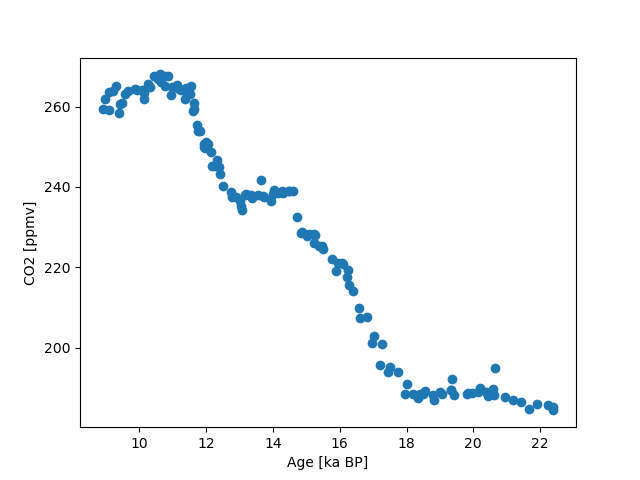
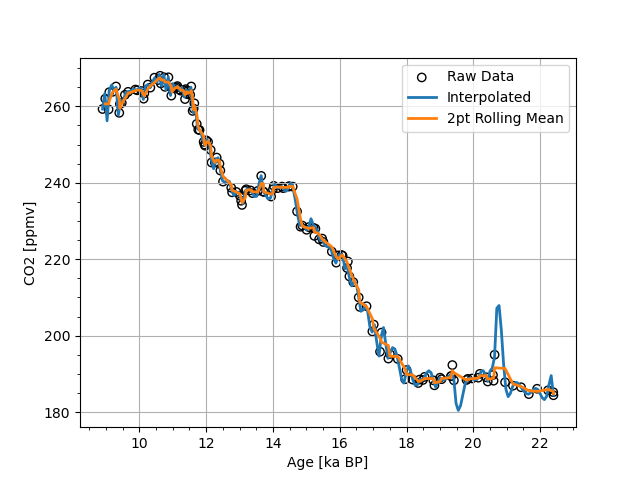
add rolling mean method and related example

diff --git a/docs/source/auto_examples/plot_scatterdata.py b/docs/source/auto_examples/plot_scatterdata.py
@@ -3,10 +3,32 @@
 Plot the 1D ScatterData
 =========================================
 
-This example shows how to plot the 1D ScatterData object. I use a data file from the EDC ice core (https://doi.pangaea.de/10.1594/PANGAEA.472488) as an example.
+This example shows how to plot the 1D ScatterData object. I use a CO2 data file from the Antarctic EDC ice core (https://doi.pangaea.de/10.1594/PANGAEA.472488) as an example.
 """
 
 from cgeniepy.table import ScatterData
-data= ScatterData("/Users/yingrui/cgeniepy/src/data/EDC_CO2.tab", sep='\t')
-data.set_index(['Age [ka BP]'])
-data.to_ScatterDataVis().plot(var='CO2 [ppmv]')
+import matplotlib.pyplot as plt
+
+# Load data
+edc_co2 = ScatterData("/Users/yingrui/cgeniepy/src/data/EDC_CO2.tab", sep='\t')
+edc_co2.set_index(['Age [ka BP]'])
+
+# Create subplots
+fig, ax = plt.subplots()
+
+# Plot the raw data
+edc_co2.to_ScatterDataVis().plot(var='CO2 [ppmv]', ax=ax, label='Raw Data', edgecolor='black', facecolor='none', marker='o')
+# Plot the interpolated data (based on cubic spline interpolation)
+interpolated_data = edc_co2.interpolate(var='CO2 [ppmv]').to_dataframe()
+interpolated_data.plot(ax=ax, x='Age [ka BP]', y='interpolated_values', label='Interpolated', linewidth=2)
+
+# Use rolling mean to smooth the data
+smoothed_data = edc_co2.rolling(window=2).mean()
+smoothed_data['CO2 [ppmv]'].plot(ax=ax, label='2pt Rolling Mean', linewidth=2)
+
+ax.legend()
+ax.grid(True)
+ax.minorticks_on()
+
+plt.show()
+

diff --git a/examples/plot_scatterdata.py b/examples/plot_scatterdata.py
@@ -3,10 +3,32 @@
 Plot the 1D ScatterData
 =========================================
 
-This example shows how to plot the 1D ScatterData object. I use a data file from the EDC ice core (https://doi.pangaea.de/10.1594/PANGAEA.472488) as an example.
+This example shows how to plot the 1D ScatterData object. I use a CO2 data file from the Antarctic EDC ice core (https://doi.pangaea.de/10.1594/PANGAEA.472488) as an example.
 """
 
 from cgeniepy.table import ScatterData
-data= ScatterData("/Users/yingrui/cgeniepy/src/data/EDC_CO2.tab", sep='\t')
-data.set_index(['Age [ka BP]'])
-data.to_ScatterDataVis().plot(var='CO2 [ppmv]')
+import matplotlib.pyplot as plt
+
+# Load data
+edc_co2 = ScatterData("/Users/yingrui/cgeniepy/src/data/EDC_CO2.tab", sep='\t')
+edc_co2.set_index(['Age [ka BP]'])
+
+# Create subplots
+fig, ax = plt.subplots()
+
+# Plot the raw data
+edc_co2.to_ScatterDataVis().plot(var='CO2 [ppmv]', ax=ax, label='Raw Data', edgecolor='black', facecolor='none', marker='o')
+# Plot the interpolated data (based on cubic spline interpolation)
+interpolated_data = edc_co2.interpolate(var='CO2 [ppmv]').to_dataframe()
+interpolated_data.plot(ax=ax, x='Age [ka BP]', y='interpolated_values', label='Interpolated', linewidth=2)
+
+# Use rolling mean to smooth the data
+smoothed_data = edc_co2.rolling(window=2).mean()
+smoothed_data['CO2 [ppmv]'].plot(ax=ax, label='2pt Rolling Mean', linewidth=2)
+
+ax.legend()
+ax.grid(True)
+ax.minorticks_on()
+
+plt.show()
+

diff --git a/src/cgeniepy/grid.py b/src/cgeniepy/grid.py
@@ -586,11 +586,13 @@ class Interpolator:
 
         :returns: pandas DataFrame
         """
+        assert len(self.dims) == 1, "Only support 1D data"
+
         index = self.gridded_coord[0]
         values = self.gridded_data[0]
 
         ## build a data frame
-        data = {self.dims[0]: index, "values": values}
+        data = {self.dims[0]: index, "interpolated_values": values}
 
         return pd.DataFrame(data)
     

diff --git a/src/cgeniepy/table.py b/src/cgeniepy/table.py
@@ -234,3 +234,7 @@ class ScatterData:
         "compare two ScatterData objects"
         return DFComparison(self.data, var1, var2)
 
+    def rolling(self, window, *args, **kwargs):
+        "apply rolling to the data"
+        return self.data.rolling(window, *args, **kwargs)
+

diff --git a/docs/source/auto_examples/plot_scatterdata.rst b/docs/source/auto_examples/plot_scatterdata.rst
@@ -22,9 +22,9 @@
 Plot the 1D ScatterData
 =========================================
 
-This example shows how to plot the 1D ScatterData object. I use a data file from the EDC ice core (https://doi.pangaea.de/10.1594/PANGAEA.472488) as an example.
+This example shows how to plot the 1D ScatterData object. I use a CO2 data file from the Antarctic EDC ice core (https://doi.pangaea.de/10.1594/PANGAEA.472488) as an example.
 
-.. GENERATED FROM PYTHON SOURCE LINES 8-13
+.. GENERATED FROM PYTHON SOURCE LINES 8-35
 
 
 
@@ -40,7 +40,6 @@ This example shows how to plot the 1D ScatterData object. I use a data file from
 
     <frozen importlib._bootstrap>:241: RuntimeWarning: scipy._lib.messagestream.MessageStream size changed, may indicate binary incompatibility. Expected 56 from C header, got 64 from PyObject
 
-    <matplotlib.collections.PathCollection object at 0x17684ebc0>
 
 
 
@@ -52,14 +51,36 @@ This example shows how to plot the 1D ScatterData object. I use a data file from
 
 
     from cgeniepy.table import ScatterData
-    data= ScatterData("/Users/yingrui/cgeniepy/src/data/EDC_CO2.tab", sep='\t')
-    data.set_index(['Age [ka BP]'])
-    data.to_ScatterDataVis().plot(var='CO2 [ppmv]')
+    import matplotlib.pyplot as plt
+
+    # Load data
+    edc_co2 = ScatterData("/Users/yingrui/cgeniepy/src/data/EDC_CO2.tab", sep='\t')
+    edc_co2.set_index(['Age [ka BP]'])
+
+    # Create subplots
+    fig, ax = plt.subplots()
+
+    # Plot the raw data
+    edc_co2.to_ScatterDataVis().plot(var='CO2 [ppmv]', ax=ax, label='Raw Data', edgecolor='black', facecolor='none', marker='o')
+    # Plot the interpolated data (based on cubic spline interpolation)
+    interpolated_data = edc_co2.interpolate(var='CO2 [ppmv]').to_dataframe()
+    interpolated_data.plot(ax=ax, x='Age [ka BP]', y='interpolated_values', label='Interpolated', linewidth=2)
+
+    # Use rolling mean to smooth the data
+    smoothed_data = edc_co2.rolling(window=2).mean()
+    smoothed_data['CO2 [ppmv]'].plot(ax=ax, label='2pt Rolling Mean', linewidth=2)
+
+    ax.legend()
+    ax.grid(True)
+    ax.minorticks_on()
+
+    plt.show()
+
 
 
 .. rst-class:: sphx-glr-timing
 
-   **Total running time of the script:** (0 minutes 0.820 seconds)
+   **Total running time of the script:** (0 minutes 0.886 seconds)
 
 
 .. _sphx_glr_download_auto_examples_plot_scatterdata.py:

diff --git a/docs/source/auto_examples/index.rst b/docs/source/auto_examples/index.rst
@@ -14,23 +14,6 @@ Below is a gallery of examples
 
 .. raw:: html
 
-    <div class="sphx-glr-thumbcontainer" tooltip="This example shows how to plot the 1D ScatterData object. I use a data file from the EDC ice co...">
-
-.. only:: html
-
-  .. image:: /auto_examples/images/thumb/sphx_glr_plot_scatterdata_thumb.png
-    :alt:
-
-  :ref:`sphx_glr_auto_examples_plot_scatterdata.py`
-
-.. raw:: html
-
-      <div class="sphx-glr-thumbnail-title">Plot the 1D ScatterData</div>
-    </div>
-
-
-.. raw:: html
-
     <div class="sphx-glr-thumbcontainer" tooltip="This example shows how to use the ArrComparison class to compare two arrays and plot the compar...">
 
 .. only:: html
@@ -184,6 +167,23 @@ Below is a gallery of examples
 
 .. raw:: html
 
+    <div class="sphx-glr-thumbcontainer" tooltip="This example shows how to plot the 1D ScatterData object. I use a CO2 data file from the Antarc...">
+
+.. only:: html
+
+  .. image:: /auto_examples/images/thumb/sphx_glr_plot_scatterdata_thumb.png
+    :alt:
+
+  :ref:`sphx_glr_auto_examples_plot_scatterdata.py`
+
+.. raw:: html
+
+      <div class="sphx-glr-thumbnail-title">Plot the 1D ScatterData</div>
+    </div>
+
+
+.. raw:: html
+
     <div class="sphx-glr-thumbcontainer" tooltip="This example uses fake data and fitted model prediction to plot taylor diagram">
 
 .. only:: html
@@ -275,7 +275,6 @@ Below is a gallery of examples
 .. toctree::
    :hidden:
 
-   /auto_examples/plot_scatterdata
    /auto_examples/plot_arrcomparison
    /auto_examples/plot_sst_map
    /auto_examples/plot_pac_sst
@@ -285,6 +284,7 @@ Below is a gallery of examples
    /auto_examples/plot_multiple_vars
    /auto_examples/plot_logo
    /auto_examples/plot_PO4_distribution
+   /auto_examples/plot_scatterdata
    /auto_examples/plot_taylor_diagram
    /auto_examples/plot_d13C_comp
    /auto_examples/plot_additional_cmap

diff --git a/docs/source/auto_examples/sg_execution_times.rst b/docs/source/auto_examples/sg_execution_times.rst
@@ -6,7 +6,7 @@
 
 Computation times
 =================
-**00:00.820** total execution time for 15 files **from auto_examples**:
+**00:00.886** total execution time for 15 files **from auto_examples**:
 
 .. container::
 
@@ -33,7 +33,7 @@ Computation times
      - Time
      - Mem (MB)
    * - :ref:`sphx_glr_auto_examples_plot_scatterdata.py` (``plot_scatterdata.py``)
-     - 00:00.820
+     - 00:00.886
      - 0.0
    * - :ref:`sphx_glr_auto_examples_plot_PO4_distribution.py` (``plot_PO4_distribution.py``)
      - 00:00.000
